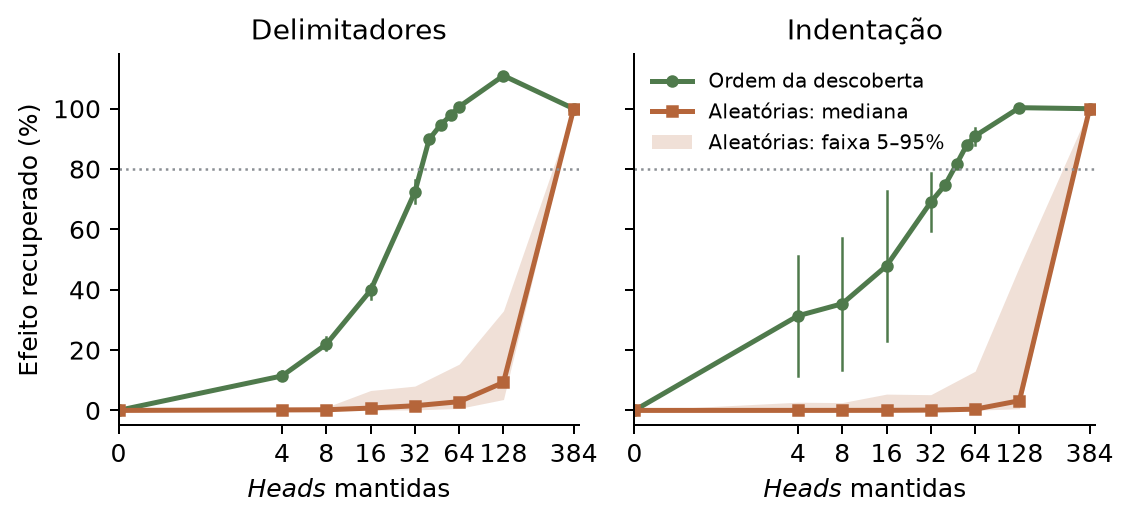
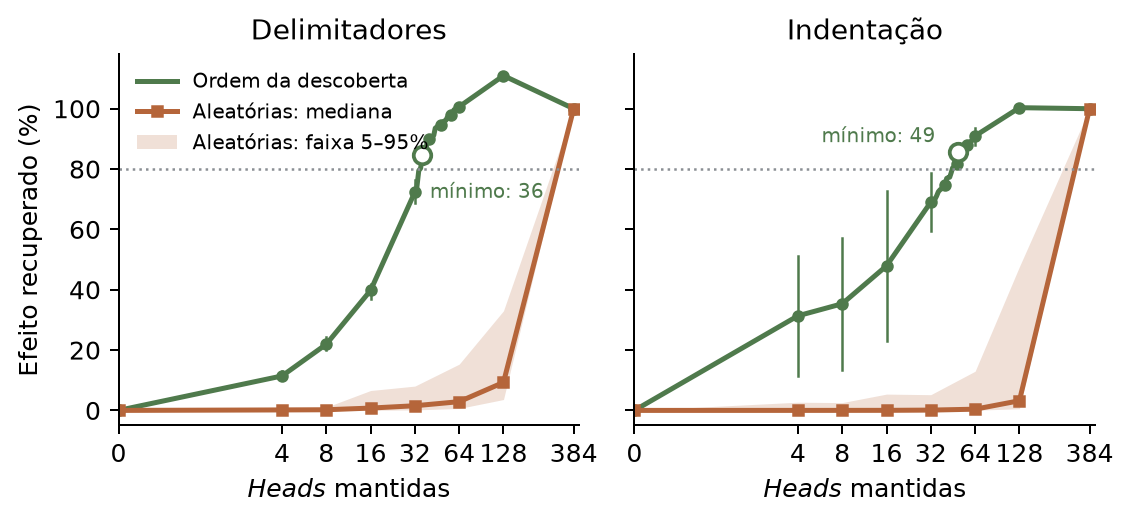
Mark the smallest sufficient set and add post-review checks
- Sufficiency figure shows every tested size and marks the minimum.
- final_tables adds sizes 35, 36, 40, 48, 49 and 56 to the curves table.
- review_checks recomputes, from saved results, the numbers added after the
  review: top token with comment lines, detection ranking of all 384 heads,
  delimiter effects by language.
- README documents the follow-up modes; Modal logs are ignored.

Changed region(s): [[0.1238, 0.1228, 0.4951, 0.3992], [0.557, 0.1228, 0.8665, 0.3071]]

diff --git a/scripts/review_checks.py b/scripts/review_checks.py
@@ -1,0 +1,102 @@
+"""Numbers added to the thesis after the advisor's first review, from saved results.
+
+No GPU and no third-party packages:
+
+    python -m scripts.review_checks
+
+* Comment lines (M2): with eight comment lines between the statement and the gap,
+  what is the top token in the whole vocabulary? (``data/final/boundary_run.json``)
+* Detection ranking (M5): induction detection score of all 384 heads in the
+  exploratory sweep (``outputs/induction_heads/induction_exhaustive_results.csv``).
+* Delimiters by language (M6): candidate effects split by template language.
+  Even templates are Python (swap offset +1), odd ones JavaScript (+2)
+  (``data/final/bracket_validation.json``).
+"""
+
+from __future__ import annotations
+
+import csv
+import json
+from collections import Counter
+from pathlib import Path
+
+ROOT = Path(__file__).resolve().parents[1]
+CANDIDATES = {(14, 11), (8, 5), (8, 1), (5, 4), (12, 4), (9, 15)}
+
+
+def comment_lines():
+    rows = json.loads((ROOT / "data/final/boundary_run.json").read_text())["transfer"]
+    out = {}
+    for lines in (0, 8):
+        subset = [r for r in rows if r["comment_lines"] == lines]
+        tokens = Counter(r["clean_top_token"] for r in subset)
+        tokens.update(r["corrupt_top_token"] for r in subset)
+        out[lines] = {
+            "pairs": len(subset),
+            "top_tokens": tokens.most_common(3),
+            "mean_target_probability_increase": sum(
+                r["clean_probability"] for r in subset if r["task"] == "increase"
+            )
+            / sum(1 for r in subset if r["task"] == "increase"),
+            "mean_target_probability_all": sum(r["clean_probability"] for r in subset)
+            / len(subset),
+        }
+    return out
+
+
+def detection_ranking(top=10):
+    path = ROOT / "outputs/induction_heads/induction_exhaustive_results.csv"
+    rows = [
+        {k: float(v) for k, v in r.items()} for r in csv.DictReader(path.open())
+    ]
+    by_effect = sorted(rows, key=lambda r: -r["mean_causal_selective_drop"])
+    effect_rank = {(r["layer"], r["head"]): i + 1 for i, r in enumerate(by_effect)}
+    rows.sort(key=lambda r: -r["mean_detection_score"])
+    return [
+        {
+            "rank": i + 1,
+            "head": f"L{int(r['layer'])}H{int(r['head'])}",
+            "candidate": (int(r["layer"]), int(r["head"])) in CANDIDATES,
+            "detection": r["mean_detection_score"],
+            "selective_effect": r["mean_causal_selective_drop"],
+            "effect_rank": effect_rank[(r["layer"], r["head"])],
+        }
+        for i, r in enumerate(rows[:top])
+    ]
+
+
+def by_language():
+    data = json.loads((ROOT / "data/final/bracket_validation.json").read_text())
+    rows = [r for r in data["validation"] if r["aligned"] and r["gap"] >= 0.5]
+
+    def ratio(subset, key):
+        return sum(r["interventions"][key] for r in subset) / sum(
+            r["gap"] for r in subset
+        )
+
+    keys = ("set_task/damage", "set_task/restore") + tuple(
+        f"{h}/resample/damage" for h in ("L14H10", "L15H15", "L18H13")
+    )
+    out = {}
+    for name, parity in (("python", 0), ("javascript", 1)):
+        subset = [r for r in rows if int(r["family"]) % 2 == parity]
+        out[name] = {"pairs": len(subset)} | {k: ratio(subset, k) for k in keys}
+    return out
+
+
+def main():
+    print(
+        json.dumps(
+            {
+                "comment_lines": comment_lines(),
+                "detection_ranking": detection_ranking(),
+                "delimiters_by_language": by_language(),
+            },
+            indent=2,
+            ensure_ascii=False,
+        )
+    )
+
+
+if __name__ == "__main__":
+    main()

diff --git a/scripts/plot_extra.py b/scripts/plot_extra.py
@@ -47,9 +47,25 @@ def panel(ax, run, title):
     ranked = {n: values[f"ranked/{n}/forward"]["estimate"] for n in grid}
     ranked.update({int(k.split("/")[0]): v for k, v in seeds["ranked"].items()
                    if k.endswith("/forward")})
+    marked = sorted(ranked)
+    fine = json.loads((ROOT / f"data/extra/{run}_fine_summary.json").read_text())
+    reverse = {int(k.split("/")[0]): v for k, v in fine["ranked"].items()
+               if k.endswith("/reverse")}
+    ranked.update({int(k.split("/")[0]): v for k, v in fine["ranked"].items()
+                   if k.endswith("/forward")})
     sizes = sorted(ranked)
-    ax.plot(sizes, [100 * ranked[n] for n in sizes], "-o", color=RANKED, lw=2, ms=4,
+    ax.plot(sizes, [100 * ranked[n] for n in sizes], "-", color=RANKED, lw=2,
             label="Ordem da descoberta")
+    ax.plot(marked, [100 * ranked[n] for n in marked], "o", color=RANKED, ms=4)
+    # Smallest size that recovers >= 80% in both directions (all of 33..64 tested).
+    minimum = min(n for n in reverse if ranked[n] >= 0.8 and reverse[n] >= 0.8)
+    ax.plot([minimum], [100 * ranked[minimum]], "o", ms=7, mfc="white",
+            mec=RANKED, mew=1.5, zorder=5)
+    ax.annotate(f"mínimo: {minimum}", (minimum, 100 * ranked[minimum]),
+                xytext=(3, -17) if run == "curve_bracket" else (-9, 4),
+                textcoords="offset points",
+                ha="left" if run == "curve_bracket" else "right",
+                fontsize=8, color=RANKED)
     for n in grid:
         lo, hi = values[f"ranked/{n}/forward"]["ci"]
         ax.plot([n, n], [100 * lo, 100 * hi], color=RANKED, lw=1)
@@ -85,7 +101,7 @@ def main():
     handles, labels = axes[0].get_legend_handles_labels()
     order = [labels.index(t) for t in ("Ordem da descoberta", "Aleatórias: mediana",
                                        "Aleatórias: faixa 5–95%")]
-    axes[1].legend([handles[i] for i in order], [labels[i] for i in order],
+    axes[0].legend([handles[i] for i in order], [labels[i] for i in order],
                    loc="upper left", fontsize=8, frameon=False)
     fig.tight_layout()
     fig.savefig(OUT / "sufficiency_curves.pdf")

diff --git a/scripts/final_tables.py b/scripts/final_tables.py
@@ -111,17 +111,31 @@ def main():
         r"Heads & Delim. limpa & Delim. reversa & Indent. limpa & Indent. reversa \\",
         r"\midrule",
     ]
-    for n in (0, 4, 8, 16, 32, 64, 128, 384):
+    # Follow-up runs (advisor review): every ranked size from 33 to 64.
+    fine = {}
+    for run in ("curve_bracket", "curve_indent"):
+        path = ROOT / f"data/extra/{run}_fine_summary.json"
+        if path.exists():
+            fine[run] = json.loads(path.read_text())["ranked"]
+
+    def curve_value(run, n, direction):
+        key = f"ranked/{n}/{direction}"
+        if run in s and key in s[run]["curves"]["all"]:
+            return s[run]["curves"]["all"][key]["estimate"]
+        if f"{n}/{direction}" in fine.get(run, {}):
+            return fine[run][f"{n}/{direction}"]
+        return None
+
+    sizes = (0, 4, 8, 16, 32, 64, 128, 384)
+    if fine:
+        # 35/36 and 48/49: last insufficient and first sufficient size.
+        sizes = sorted(set(sizes) | {35, 36, 40, 48, 49, 56})
+    for n in sizes:
         values = []
         for run in ("curve_bracket", "curve_indent"):
             for direction in ("forward", "reverse"):
-                values.append(
-                    f"{s[run]['curves']['all'][f'ranked/{n}/{direction}']['estimate']:.3f}".replace(
-                        ".", ","
-                    )
-                    if run in s
-                    else "--"
-                )
+                v = curve_value(run, n, direction)
+                values.append("--" if v is None else f"{v:.3f}".replace(".", ","))
         curves.append(str(n) + " & " + " & ".join(values) + r" \\")
     curves += [r"\bottomrule", r"\end{tabular}"]
     (out / "curves.tex").write_text("\n".join(curves) + "\n")

diff --git a/tables/final/curves.tex b/tables/final/curves.tex
@@ -7,6 +7,12 @@ Heads & Delim. limpa & Delim. reversa & Indent. limpa & Indent. reversa \\
 8 & 0,219 & 0,199 & 0,354 & 0,335 \\
 16 & 0,398 & 0,374 & 0,479 & 0,460 \\
 32 & 0,724 & 0,700 & 0,690 & 0,647 \\
+35 & 0,803 & 0,782 & 0,710 & 0,674 \\
+36 & 0,845 & 0,827 & 0,725 & 0,692 \\
+40 & 0,899 & 0,884 & 0,747 & 0,720 \\
+48 & 0,947 & 0,935 & 0,817 & 0,795 \\
+49 & 0,953 & 0,942 & 0,856 & 0,835 \\
+56 & 0,978 & 0,967 & 0,879 & 0,863 \\
 64 & 1,007 & 0,997 & 0,910 & 0,896 \\
 128 & 1,110 & 1,112 & 1,003 & 0,998 \\
 384 & 1,000 & 1,000 & 1,000 & 1,000 \\

diff --git a/README.md b/README.md
@@ -30,6 +30,7 @@ Main findings:
 scripts/      experiment, analysis and plotting code (see below)
 tests/        unit tests for datasets, statistics and intervention hooks
 data/final/   frozen datasets, per-example results and summary of every final experiment
+data/extra/   follow-up runs requested in the advisor review
 data/colab/   independent rerun of two experiments on a Google Colab T4 GPU
 outputs/      discovery-split rankings, induction confirmation, model equivalence check
 figures/final/, tables/final/   figures and tables used in the thesis
@@ -65,6 +66,8 @@ All numbers, tables and figures in the thesis are computed from the saved result
 uv run python -m scripts.summarize_final   # data/final/*.json -> data/final/summary.json
 uv run python -m scripts.final_tables      # -> tables/final/
 uv run python -m scripts.plot_final        # -> figures/final/
+uv run python -m scripts.plot_extra        # redraws sufficiency_curves with the follow-up runs
+uv run python -m scripts.review_checks     # numbers added after the advisor review
 uv run --with pytest python -m pytest -q
 ```
 
@@ -98,6 +101,25 @@ minutes (`data/final/budget_ledger.json`).
 `notebooks/reproduction_colab.ipynb` (in Portuguese) installs the pinned versions on
 Google Colab, reruns `behavior` and `bracket` and compares them with the saved results.
 On a T4, every value matched within 1e-4 logits (`data/colab/`).
+
+### Follow-up runs (advisor review, Nov 2026)
+
+`scripts/extra_experiments.py` adds modes requested after the advisor's first review.
+They use the same pairs, hooks and effect definitions as `curve_bracket` and
+`curve_indent`; results and summaries are in `data/extra/`
+(`python -m scripts.summarize_extra data/extra/<run>.json`).
+
+| Mode | Question | Saved result |
+|---|---|---|
+| `curve_bracket_seeds`, `curve_indent_seeds` | Random-order curves over 20 seeds (the first is the original seed) and ranked sizes 40, 48, 56 | `curve_*_seeds.json` |
+| `curve_bracket_fine`, `curve_indent_fine` | Every ranked size from 33 to 64, to find the smallest set that recovers 80% in both directions (36 and 49) | `curve_*_fine.json` |
+| `addback_bracket` | The 128 top-ranked heads plus each of the other 256, one at a time | `addback_bracket.json` |
+
+These runs took about 67 A10 minutes on Modal. `scripts/plot_extra.py` draws the
+sufficiency figure from them, and `scripts/final_tables.py` adds the fine sizes to
+`tables/final/curves.tex`. `scripts/review_checks.py` computes, without a GPU, the other
+numbers added after the review: the top token with comment lines, the detection
+ranking of all 384 heads and the delimiter effects by language.
 
 ### Earlier stages
 
